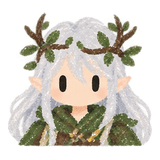
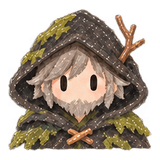
Add distinct portrait art for named role variants

diff --git a/scripts/import-role-portraits.js b/scripts/import-role-portraits.js
@@ -8,19 +8,52 @@ const rows = [0, 340, 633, 926, 1254];
 const columns = [[0, 307, 603, 922, 1254], [0, 320, 614, 919, 1254], [0, 315, 622, 940, 1254], [0, 309, 614, 941, 1254]];
 const names = ["merlin", "percival", "servant", "assassin", "morgana", "mordred", "oberon", "lancelot",
   "swordsman", "hunter", "guard", "paladin", "magician", "prophet", "witch", "thief"];
+// Reviewed crops for the approved November artwork. Null cells are superseded
+// knight/spy drafts; never import them over the separately approved revisions.
+const atlases = [
+  { input, width: 1254, height: 1254, rows, columns, names },
+  {
+    input: path.join(root, "docs/sources/role-portraits-factions.png"),
+    width: 1122, height: 1402,
+    rows: [0, 280, 554, 820, 1095, 1402],
+    columns: [[0, 290, 550, 840, 1122], [0, 280, 560, 825, 1122],
+      [0, 288, 560, 835, 1122], [0, 285, 565, 840, 1122], [0, 280, 560, 840, 1122]],
+    names: ["gargoyle", "oberon", null, null,
+      "lancelot-blue", "lancelot-red", "gareth", "gaheris",
+      "hunter-blue", "hunter-red", "guard-blue", "guard-red",
+      "magician-blue", "magician-red", "thief-blue", "thief-red",
+      "awakened-blue", "awakened-red", null, null],
+  },
+  {
+    input: path.join(root, "docs/sources/role-portraits-knights-spies.png"),
+    width: 1199, height: 1312,
+    rows: [0, 600, 1312], columns: [[0, 600, 1199], [0, 600, 1199]],
+    names: ["knight-blue", "knight-red", "spy-blue", "spy-red"],
+  },
+];
 async function main() {
-  const metadata = await sharp(input).metadata();
-  if (metadata.width !== 1254 || metadata.height !== 1254 || !metadata.hasAlpha) throw new Error("Expected the reviewed 1254×1254 transparent atlas");
+  for (const atlas of atlases) {
+    const metadata = await sharp(atlas.input).metadata();
+    if (metadata.width !== atlas.width || metadata.height !== atlas.height || !metadata.hasAlpha)
+      throw new Error("Expected the reviewed " + atlas.width + "×" + atlas.height + " transparent atlas: " + atlas.input);
+  }
   const output = path.join(root, "miniprogram/assets/roles");
   fs.mkdirSync(output, { recursive: true });
-  for (let i = 0; i < names.length; i++) {
-    const row = Math.floor(i / 4), col = i % 4;
-    const crop = await sharp(input).extract({ left: columns[row][col], top: rows[row], width: columns[row][col + 1] - columns[row][col], height: rows[row + 1] - rows[row] }).png().toBuffer();
-    const tile = await sharp(crop).trim().png().toBuffer();
-    await sharp(tile).resize(144, 144, { fit: "contain", background: "#00000000" })
-      .extend({ top: 8, bottom: 8, left: 8, right: 8, background: "#00000000" })
-      .png({ palette: true, colours: 128, compressionLevel: 9 }).toFile(path.join(output, names[i] + ".png"));
+  const imported = new Set();
+  for (const atlas of atlases) {
+    const { input, rows, columns, names } = atlas;
+    const columnCount = columns[0].length - 1;
+    for (let i = 0; i < names.length; i++) {
+      if (!names[i]) continue;
+      const row = Math.floor(i / columnCount), col = i % columnCount;
+      const crop = await sharp(input).extract({ left: columns[row][col], top: rows[row], width: columns[row][col + 1] - columns[row][col], height: rows[row + 1] - rows[row] }).png().toBuffer();
+      const tile = await sharp(crop).trim().png().toBuffer();
+      await sharp(tile).resize(144, 144, { fit: "contain", background: "#00000000" })
+        .extend({ top: 8, bottom: 8, left: 8, right: 8, background: "#00000000" })
+        .png({ palette: true, colours: 128, compressionLevel: 9 }).toFile(path.join(output, names[i] + ".png"));
+      imported.add(names[i]);
+    }
   }
-  console.log("Imported " + names.length + " transparent portraits into " + output);
+  console.log("Imported " + imported.size + " transparent portraits into " + output);
 }
 main().catch(error => { console.error(error); process.exitCode = 1; });

diff --git a/miniprogram/role-portraits.js b/miniprogram/role-portraits.js
@@ -2,27 +2,32 @@
   if (typeof module === "object" && module.exports) module.exports = factory();
   else root.shadowtableRolePortraits = factory();
 })(typeof window !== "undefined" ? window : this, function () {
-// Role art is shared by archetype; the full recorded role and faction stay visible.
+// Named variants retain their own art even when their recorded faction changes.
 const portraits = {
   "梅林": "merlin", "派西维尔": "percival", "派西": "percival",
   "亚瑟的忠臣": "servant", "忠臣": "servant", "逆仆": "servant",
   "刺客": "assassin", "莫甘娜": "morgana", "莫德雷德": "mordred", "奥伯伦": "oberon",
-  "蓝兰斯洛特": "lancelot", "红兰斯洛特": "lancelot", "兰斯洛特": "lancelot",
-  "蓝刀客·加雷斯": "swordsman", "蓝刀客·加赫雷斯": "swordsman", "红刀客·奥伯伦": "swordsman",
-  "觉醒蓝刀客": "swordsman", "觉醒红刀客": "swordsman",
-  "蓝骑士": "lancelot", "红骑士": "lancelot", "高文": "paladin",
-  "蓝猎人": "hunter", "红猎人": "hunter", "猎人": "hunter",
-  "蓝守卫": "guard", "守卫": "guard", "守护者": "guard", "圣骑士": "paladin",
-  "魔术师": "magician", "蓝术士": "magician", "红术士": "magician",
-  "月下先知": "prophet", "先知": "prophet", "女巫": "witch", "石像鬼": "mordred",
-  "蓝盗贼": "thief", "红盗贼": "thief", "盗贼": "thief", "捣蛋鬼": "thief",
-  "蓝内奸": "assassin", "红内奸": "assassin",
+  "蓝兰斯洛特": "lancelot-blue", "红兰斯洛特": "lancelot-red", "兰斯洛特": "lancelot",
+  "蓝刀客·兰斯洛特": "lancelot-blue", "红刀客·兰斯洛特": "lancelot-red",
+  "蓝刀客·加雷斯": "gareth", "蓝刀客·加赫雷斯": "gaheris", "红刀客·奥伯伦": "oberon",
+  "加雷斯": "gareth", "加赫雷斯": "gaheris",
+  "觉醒蓝刀客": "awakened-blue", "觉醒红刀客": "awakened-red",
+  "蓝骑士": "knight-blue", "红骑士": "knight-red", "高文": "paladin",
+  "蓝猎人": "hunter-blue", "红猎人": "hunter-red", "猎人": "hunter",
+  "蓝守卫": "guard-blue", "红守卫": "guard-red", "守卫": "guard", "守护者": "guard", "圣骑士": "paladin",
+  "魔术师": "magician", "蓝术士": "magician-blue", "红术士": "magician-red",
+  "月下先知": "prophet", "先知": "prophet", "女巫": "witch", "石像鬼": "gargoyle",
+  "蓝盗贼": "thief-blue", "红盗贼": "thief-red", "盗贼": "thief", "捣蛋鬼": "thief",
+  "蓝内奸": "spy-blue", "红内奸": "spy-red",
 };
+// Also retain the generic swordsman used by profession-only fun records.
+const assetNames = Array.from(new Set([...Object.values(portraits), "swordsman"]));
 const factionLabels = { good: "好人阵营", evil: "坏人阵营", third: "盗贼阵营", unknown: "未知阵营" };
 function portrait(role, faction) {
   const name = String(role || "未知角色");
+  const lookup = name.trim().replace(/\s*·\s*/g, "·");
   const split = name.indexOf("·");
-  const art = portraits[name] || ({ good: "servant", evil: "mordred", third: "thief" })[faction] || "guard";
+  const art = (Object.prototype.hasOwnProperty.call(portraits, lookup) && portraits[lookup]) || ({ good: "servant", evil: "mordred", third: "thief" })[faction] || "guard";
   return {
     roleKey: String(faction || "unknown") + ":" + name,
     portrait: "/assets/roles/" + art + ".png",
@@ -31,5 +36,5 @@ function portrait(role, faction) {
     factionLabel: factionLabels[faction] || factionLabels.unknown,
   };
 }
-return { portrait };
+return { portrait, assetNames };
 });

diff --git a/scripts/render-stats-preview.js b/scripts/render-stats-preview.js
@@ -136,6 +136,18 @@ const scenes = {
   'history-empty': {tab:'matches',historyStarted:true,history:{...history,records:[],total:0,outcomeSummary:'',outcomeCounts:null}},
   'history-long': {tab:'matches',historyStarted:true,history:{...history,records:stressRecords,total:1,outcomeSummary:'0 胜 · 1 负',outcomeCounts:{wins:0,losses:1,excluded:0}}},
 };
+// All approved named variants, rendered through the production role grid.
+const roleArtNames = ["石像鬼", "奥伯伦", "蓝骑士", "红骑士", "蓝内奸", "红内奸",
+  "蓝兰斯洛特", "红兰斯洛特", "蓝刀客·加雷斯", "蓝刀客·加赫雷斯",
+  "蓝猎人", "红猎人", "蓝守卫", "红守卫", "蓝术士", "红术士",
+  "蓝盗贼", "红盗贼", "觉醒蓝刀客", "觉醒红刀客"];
+const roleArtStats = presentStats({ total: 40, wins: 20, winRate: 50, byFaction: [], byBoard: [], recent: [],
+  byRole: roleArtNames.map(role => ({ role,
+    faction: role.includes("盗贼") ? "third" : role.startsWith("红") || role === "觉醒红刀客" || ["石像鬼", "奥伯伦"].includes(role) ? "evil" : "good",
+    total: 2, wins: 1, winRate: 50,
+  })),
+});
+scenes['role-art-variants'] = {tab:'records', statistics:{stats:roleArtStats}};
 // Accepted title grid, using the counts from the design review as sample data.
 const gridCounts = { honor_mvp:1, honor_svp:0, survival_revive:0, survival_knifed:4,
   percival_green:0, percival_bust:1, merlin_evade:1, merlin_hit:0, good_shield:2, assassin_hit:0, assassin_miss:2 };
@@ -158,7 +170,7 @@ const projection = 'body{margin:0}button{position:relative;overflow:hidden;font:
 fs.mkdirSync(output, { recursive: true });
 for (const [name, data] of Object.entries(scenes)) fs.writeFileSync(path.join(output, name + '.html'), `<!doctype html><html lang="zh-CN"><meta charset="utf-8"><meta name="viewport" content="width=device-width,initial-scale=1"><link rel="icon" href="data:,"><title>战绩 · ${name}</title><style>${projection}${styles}</style>${html(factory('pages/stats/stats.wxml')({statistics:{},history:{},historyStarted:false,scrollTops:{},...data}))}${data.info ? html(factory('components/app-dialog/app-dialog.wxml')({dialog:data.info,bodyHeight:0})) : ''}<div class="preview-homebar"></div></html>`);
 const meProfile=presentProfile({nickname:'子龙',identityType:'wx',avatarUrl:''});
-meProfile.avatarUrl='/pages/profile/assets/avatars/crayon-07.jpg';
+meProfile.avatarUrl='/pages/profile/assets/avatars/avatar-07.jpg';
 const meStyles=css('app.wxss')+css('components/app-nav/app-nav.wxss')+css('pages/me/me.wxss')+css('custom-tab-bar/index.wxss');
 for (const [name,personal] of Object.entries({
   me:{profile:meProfile,stats,currentRoom:{code:'620816',status:'lobby',statusLabel:'待开局',boardLabel:'十二骑士',capacity:12,relationLabel:'我在 3 号'}},

diff --git a/server/web/index.js b/server/web/index.js
@@ -78,7 +78,7 @@ for (const name of ["home-wordmark", "home-subtitle", "tab-table", "tab-table-ac
   assets["/assets/" + name + ".png"] = ["../../miniprogram/assets/" + name + ".png", "image/png"];
 for (const avatar of builtinAvatars)
   assets[avatar.path] = ["../../miniprogram" + avatar.path, "image/jpeg"];
-for (const role of ["merlin", "percival", "assassin", "servant", "morgana", "mordred", "oberon", "lancelot", "swordsman", "hunter", "guard", "paladin", "magician", "prophet", "witch", "thief"])
+for (const role of require("../../miniprogram/role-portraits").assetNames)
   assets["/assets/roles/" + role + ".png"] = ["../../miniprogram/assets/roles/" + role + ".png", "image/png"];
 for (const badge of require('../../miniprogram/badges').catalogue)
   assets[badge.imageUrl] = [badge.permanent ? 'assets/' + badge.imageUrl.split('/').pop() : '../../miniprogram' + badge.imageUrl, 'image/png'];

diff --git a/docs/role-portraits.md b/docs/role-portraits.md
@@ -3,15 +3,36 @@
 「我的战绩」角色图鉴、趣味记录的职业图标、对局记录与积分流水的角色缩略图，复盘身份图鉴，以及创建房间和房间配置的公开角色列表复用透明 PNG，直接展示在现有 `#1b2b35` 分组底色上。2026-10-16 使用内置 ImageGen 工具生成，参考了项目已有彩色蜡笔头像的笔触与比例，没有沿用参考小程序的图片。
 
 - 原始图集：`docs/sources/role-portraits-atlas.png`，1254×1254，保留透明通道。
-- 小程序资源：`miniprogram/assets/roles/*.png`，16 张 160×160 的透明缩略图。
-- 名称映射：`miniprogram/role-portraits.js`；扩展角色按职业复用插画，完整角色名与结算阵营独立展示。同名角色跨阵营时保留独立战绩。
+- 小程序资源：`miniprogram/assets/roles/*.png`，现有 35 张 160×160 的透明缩略图，合计约 490 KiB（预算 512 KiB）。
+- 名称映射：`miniprogram/role-portraits.js`；具名角色和红蓝变体使用独立插画，其余按职业复用，完整角色名与结算阵营独立展示。同名角色跨阵营时保留独立战绩。
 - 对局列表的阵营色点与文字取结算记录；插画仅标识角色职业，不据其服装颜色判断阵营。趣味记录的机会数、成功率、未知值和相关对局链接沿用现有数据。
 - 公开角色配置由 `miniprogram/room-sheet-presentation.js` 添加插画与重复角色标记；保留服务端的人数、阵营和角色原文，包含盗贼阵营，不据插画推断或调整配比。
 - 复盘分别按初始和最终身份选图；身份未记录时显示未知占位，不根据其他时刻的身份补图或推断阵营。积分调整使用独立图标，不显示角色，也不增加详情点击入口。
-- 处理脚本：`node scripts/import-role-portraits.js`。先按实际行列间隙切片，再裁去透明边缘、等比缩放并补透明留白，以128色PNG压缩。该脚本针对本次已审核原图的尺寸与切片坐标；替换图集后应重新核对坐标。
+- 处理脚本：`node scripts/import-role-portraits.js`。依次导入原始图集、阵营图集和最终骑士／内奸图集。先按已核对的行列间隙切片，再裁去透明边缘、等比缩放并补透明留白，以128色PNG压缩；替换图集后应重新核对坐标。原始职业图标保留供趣味记录使用。
 - 输入风格参考：`crayon-01.jpg`、`crayon-07.jpg`、`crayon-06.jpg`、`crayon-03.jpg`，位于 `miniprogram/pages/profile/assets/avatars/`。
 
 图集从左到右、从上到下分别为：梅林、派西维尔、忠臣、刺客；莫甘娜、莫德雷德、奥伯伦、兰斯洛特；刀客、猎人、守卫、圣骑士；魔术师、先知、女巫、盗贼。
+
+## 2026-11-13 确认稿接入
+
+使用内置 ImageGen（非 CLI）将用户确认的两张预览去除背景和标签，保留真实透明通道；以下原图已存入项目，不依赖本地生成缓存。
+
+- `docs/sources/role-portraits-factions.png`（1122×1402）：4 列 × 5 行。石像鬼、奥伯伦、旧版蓝／红骑士；蓝／红兰斯洛特、加雷斯、加赫雷斯；蓝／红猎人、蓝／红守卫；蓝／红术士、蓝／红盗贼；觉醒蓝／红刀客、旧版蓝／红内奸。旧版骑士和内奸的四个格子不导入。
+- `docs/sources/role-portraits-knights-spies.png`（1199×1312）：2 列 × 2 行。最终露面头盔与枪旗的蓝／红骑士；软帽、密信和双面徽章的蓝／红内奸。
+- 石像鬼不再复用莫德雷德；奥伯伦（包括红刀客·奥伯伦）使用林地隐士形象。加雷斯和加赫雷斯由发型与额饰区分。红蓝变体只按角色名称选图，不随结算阵营重新着色，尤其不能把盗贼的服饰颜色当成阵营。
+- `assetNames` 从共享映射导出供网页静态资源白名单使用，避免新增图片只在小程序能加载。名称查找兼容中点两侧的空格以及“蓝／红刀客 · 兰斯洛特”，不修改原角色名、分组键和阵营。
+- 可复现页面预览：`node scripts/render-stats-preview.js`，查看输出目录的 `role-art-variants.html`；采用生产 WXML/WXSS 和共享角色映射，演示数据不写入真实战绩。
+- 验证：透明尺寸和留白、资源总大小、独立角色及红蓝配对、跨阵营身份保持、网页匿名素材加载，以及房间配置和复盘回归。
+
+最终透明图集处理提示词（两次内置 ImageGen 调用）：
+
+```text
+Use case: background-extraction. Edit this exact supplied approved portrait board into a production TRANSPARENT sprite atlas. Remove ONLY the dark navy background and ALL the Chinese text captions, making those pixels fully transparent. Preserve all 20 portraits exactly: same crayon texture, faces, equipment, colors, silhouettes, poses and details. Do NOT redesign or redraw the characters. Keep the exact FOUR columns and FIVE rows in original reading order. Each portrait remains centered in its own equally sized cell, all parts inside cell with generous transparent margins. Do not add or omit characters. True alpha transparency, no simulated checkerboard, no background, no text, no labels, no shadows behind the portraits. Preserve natural textured edges, no dark navy boxes or halos. This is extraction of the approved artwork, not a new creative concept.
+```
+
+```text
+Use case: background-extraction. Edit this exact supplied approved portrait board into a production TRANSPARENT sprite atlas. Remove ONLY the dark navy background and ALL Chinese caption text, making those pixels fully transparent. Preserve all FOUR portraits exactly: same crayon texture, faces, equipment, colors, silhouettes, poses and details. Do NOT redesign or redraw. Top row blue knight / red knight, bottom row blue court spy / red court spy. Keep exactly TWO columns and TWO rows, each portrait centered in its own equally sized cell with generous transparent margins. Retain entire feathers, pennants, helmets and shoulders. True alpha transparency, no simulated checkerboard, no background, no text, no labels, no shadows behind the portraits. Preserve natural textured edges, no dark navy boxes or halos. This is extraction of the approved artwork, not a new creative concept.
+```
 
 ## 生成提示词
 
